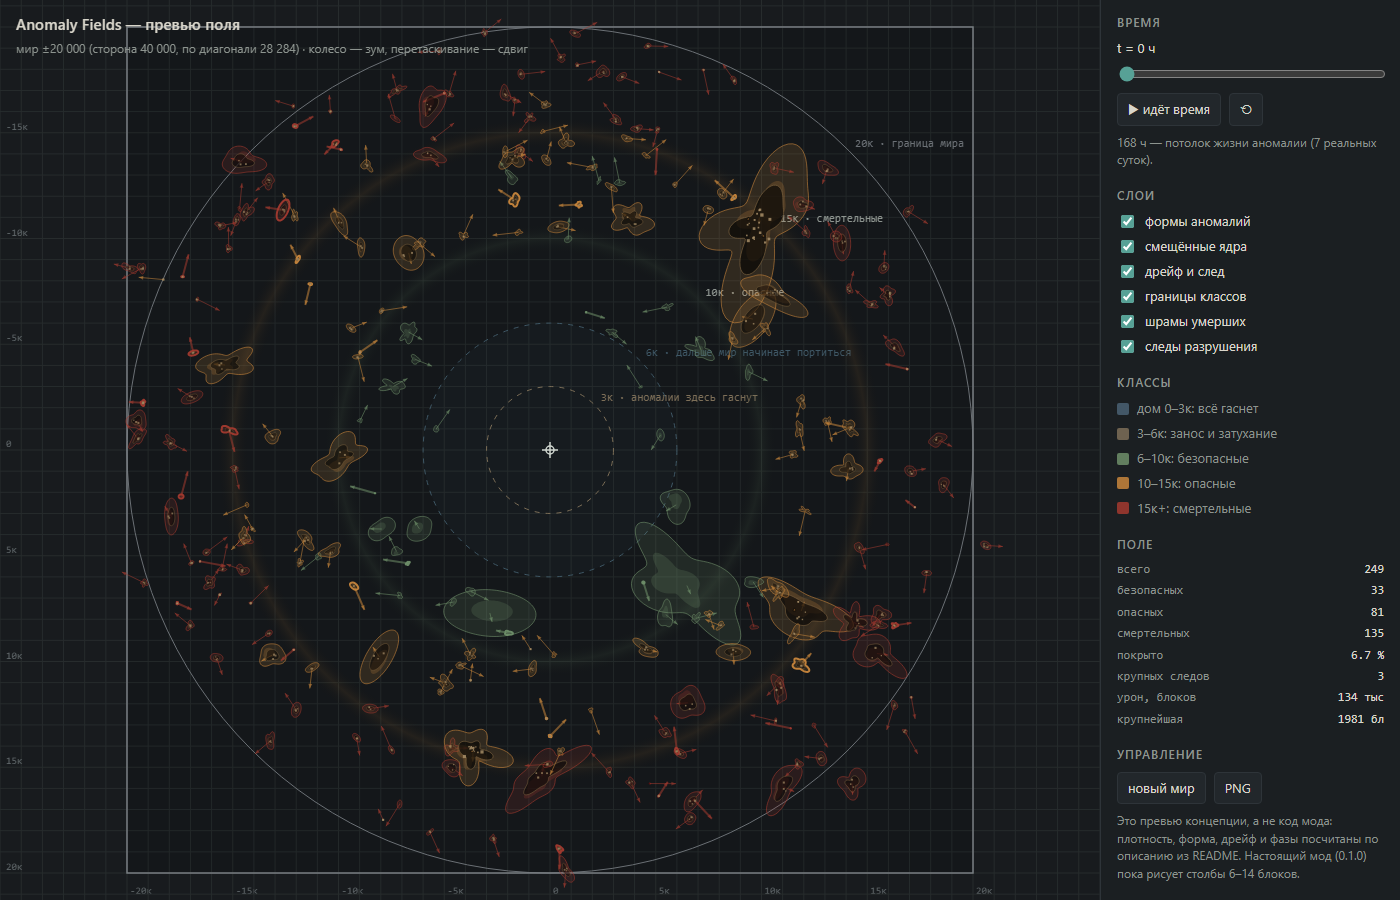
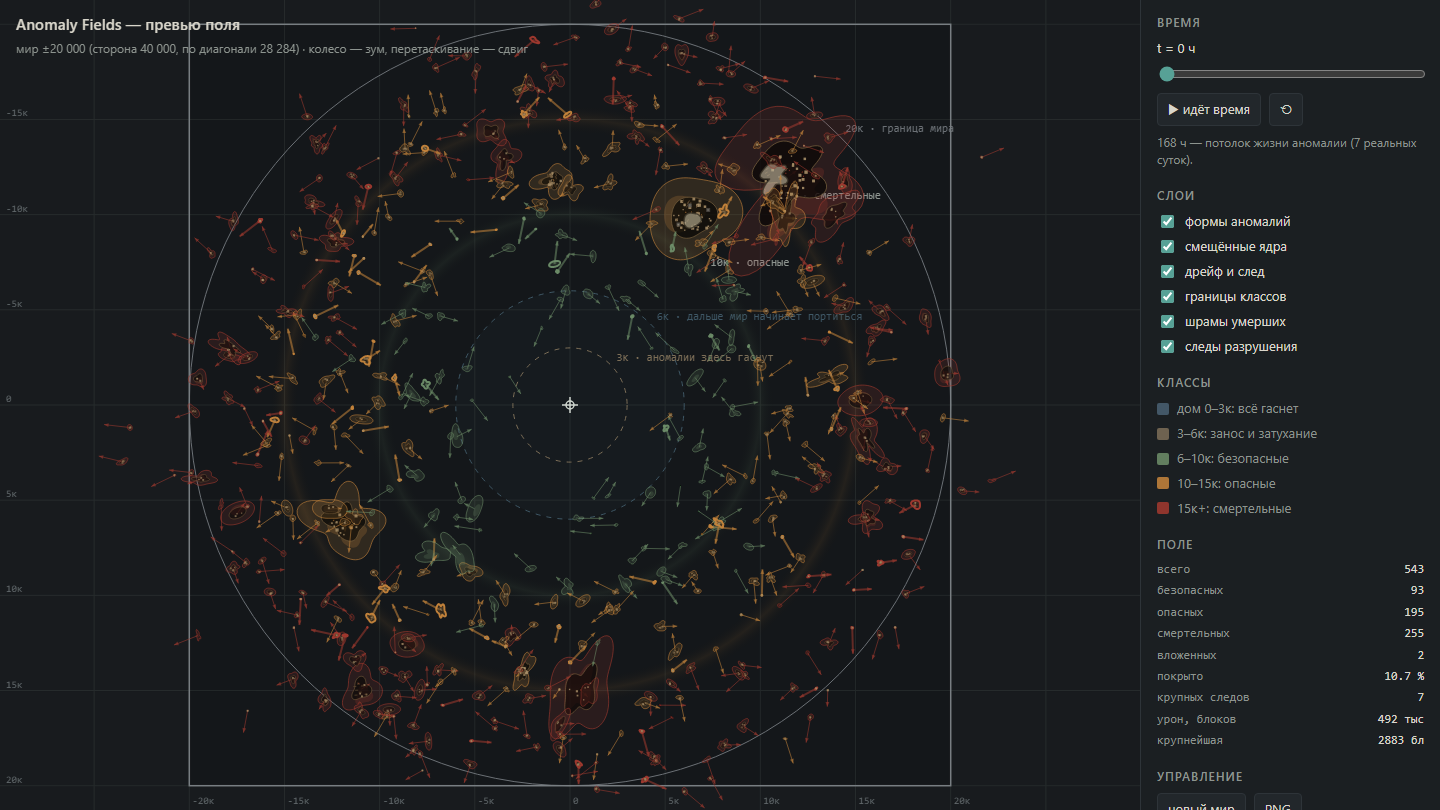
Preview 0.3.0: nested inner contour, fallen-forest hatches, ruin squares, uplift plate, nested counter; density matches the mod (600 zones); measured coverage logged at load (28.8 %) and docs updated

diff --git a/preview/anomalies-preview.html b/preview/anomalies-preview.html
@@ -170,8 +170,9 @@ function makeField(seed) {
   const rnd = mulberry32(seed);
   const out = [];
   let guard = 0;
-  // 3800 «записей» на 14 суток даёт ~250 живых в любой момент (в среднем жизнь ~21 ч)
-  while (out.length < 3800 && guard++ < 200000) {
+  // 8200 «записей» на 14 суток даёт ~600 живых в любой момент (в среднем жизнь ~21 ч):
+  // столько же, сколько держит мод (population 600) — иначе превью врёт про плотность
+  while (out.length < 8200 && guard++ < 400000) {
     const x = (rnd() * 2 - 1) * WORLD_R;
     const z = (rnd() * 2 - 1) * WORLD_R;
     const d = Math.hypot(x, z);
@@ -226,7 +227,15 @@ function makeField(seed) {
       coreAngle: rnd() * Math.PI * 2,
       coreSpin: (rnd() - 0.5) * 0.03,
       breath: 0.01 + rnd() * 0.02,          // общий радиус «вздыхает» на 1–3 %
-      breathSpeed: 0.2 + rnd() * 0.4
+      breathSpeed: 0.2 + rnd() * 0.4,
+      // вложенность (0.3.0): четверть крупных зон содержит малую
+      nest: radius >= 900 && rnd() < 0.25
+        ? { dist: 0.45 * Math.sqrt(rnd()), ang: rnd() * Math.PI * 2, r: 0.16 + rnd() * 0.14 }
+        : null,
+      // новая география (0.3.0): лес плашмя, руины, поднятая плита
+      geo: radius >= 600
+        ? { forest: rnd() < 0.65, ruins: rnd() < 0.5, uplift: radius >= 1600 && rnd() < 0.35 }
+        : null
     });
   }
   return out;
@@ -533,6 +542,17 @@ function drawAnomaly(a, st) {
     ctx.restore();
   }
   if (state.show.damage) drawDamage(a, st);
+  // вложенная зона: своя граница внутри родителя (0.3.0)
+  if (a.nest && state.show.forms) {
+    const nx = st.x + Math.cos(a.nest.ang) * st.radius * a.nest.dist;
+    const nz = st.z + Math.sin(a.nest.ang) * st.radius * a.nest.dist;
+    polygonPath(shapePoints(a, { x: nx, z: nz, radius: st.radius * a.nest.r }));
+    ctx.fillStyle = withAlpha(a.cls.color, 0.13);
+    ctx.fill();
+    ctx.strokeStyle = withAlpha(a.cls.color, 0.75 * (fresh ? 1 : 0.7));
+    ctx.lineWidth = 1;
+    ctx.stroke();
+  }
 }
 
 // последствия: большие опасные/смертельные уродуют землю, мелкие — почти нет
@@ -584,6 +604,55 @@ function drawDamage(a, st) {
     ctx.lineWidth = 1;
     ctx.stroke();
   }
+
+  // поваленный лес плашмя: короткие штрихи, все вдоль одного направления падения
+  if (a.geo && a.geo.forest) {
+    const fall = rnd() * Math.PI * 2;
+    const logs = Math.max(4, Math.round(10 * strength));
+    ctx.strokeStyle = `rgba(96, 74, 48, ${0.45 + 0.4 * strength})`;
+    ctx.lineWidth = Math.max(1, s * 1.2);
+    for (let i = 0; i < logs; i++) {
+      const ang = rnd() * Math.PI * 2;
+      const dist = Math.sqrt(rnd()) * st.radius * 0.42;
+      const [sx, sy] = toScreen(st.x + Math.cos(ang) * dist, st.z + Math.sin(ang) * dist);
+      const len = Math.max(3, (4 + rnd() * 3) * s);
+      ctx.beginPath();
+      ctx.moveTo(sx, sy);
+      ctx.lineTo(sx + Math.cos(fall) * len, sy + Math.sin(fall) * len);
+      ctx.stroke();
+    }
+  }
+
+  // обрушенные постройки: пол из обломков и стены без крыш
+  if (a.geo && a.geo.ruins) {
+    const houses = 1 + Math.round(2 * strength);
+    for (let i = 0; i < houses; i++) {
+      const ang = rnd() * Math.PI * 2;
+      const dist = Math.sqrt(rnd()) * st.radius * 0.4;
+      const [sx, sy] = toScreen(st.x + Math.cos(ang) * dist, st.z + Math.sin(ang) * dist);
+      const w = Math.max(3, (8 + rnd() * 8) * s);
+      ctx.fillStyle = `rgba(150, 146, 138, ${0.35 + 0.3 * strength})`;
+      ctx.fillRect(sx - w / 2, sy - w / 2, w, w);
+      ctx.strokeStyle = `rgba(74, 70, 64, ${0.6 + 0.3 * strength})`;
+      ctx.lineWidth = 1;
+      ctx.strokeRect(sx - w / 2, sy - w / 2, w, w);
+    }
+  }
+
+  // поднятая плита: светлый пласт с тенью по нижнему краю
+  if (a.geo && a.geo.uplift) {
+    const ang = rnd() * Math.PI * 2;
+    const dist = rnd() * st.radius * 0.3;
+    const cx = st.x + Math.cos(ang) * dist;
+    const cz = st.z + Math.sin(ang) * dist;
+    const rr = st.radius * (0.12 + rnd() * 0.08);
+    polygonPath(shapePoints(a, { x: cx, z: cz, radius: rr }));
+    ctx.fillStyle = `rgba(188, 178, 152, ${0.30 + 0.35 * strength})`;
+    ctx.fill();
+    ctx.strokeStyle = `rgba(58, 52, 40, ${0.55 + 0.3 * strength})`;
+    ctx.lineWidth = 1.5;
+    ctx.stroke();
+  }
 }
 
 function drawPlayerMark() {
@@ -606,12 +675,15 @@ function updateStats(alive) {
   let biggest = null;
   let damageTotal = 0;
   let bigScars = 0;
+  let nested = 0;
   for (const [a, st] of alive) {
     byClass[a.cls.key]++;
-    area += Math.PI * st.radius * st.radius;
+    // площадь эллипса, как в моде: вытянутость 0.55–2.25 заметно меняет покрытие
+    area += Math.PI * st.radius * st.radius * Math.max(0.2, a.stretch);
     const dmg = damageBlocks(a);
     damageTotal += dmg;
     if (dmg >= 5000) bigScars++;
+    if (a.nest) nested++;
     if (!biggest || st.radius > biggest.st.radius) biggest = { a, st };
   }
   const fmt = (v) => v >= 1e6 ? (v / 1e6).toFixed(1) + " млн" : Math.round(v / 1000) + " тыс";
@@ -622,6 +694,7 @@ function updateStats(alive) {
     ["безопасных", byClass.safe],
     ["опасных", byClass.danger],
     ["смертельных", byClass.deadly],
+    ["вложенных", nested],
     ["покрыто", share.toFixed(1) + " %"],
     ["крупных следов", bigScars],
     ["урон, блоков", fmt(damageTotal)],

diff --git a/src/main/java/anomaly/AnomalyField.java b/src/main/java/anomaly/AnomalyField.java
@@ -137,6 +137,11 @@ public final class AnomalyField {
 				data.anomalies.size(), config == null ? 0 : config.population,
 				String.format("%.1f", AnomalyClock.fieldMs() / (double) HOUR_MS),
 				fresh ? " (новое поле, население посеяно)" : "");
+		// замер сразу после загрузки: покрытие — единственное число, которое нельзя проверить глазами
+		Stats measured = stats();
+		AnomalyMod.LOGGER.info("Anomaly: покрытие {} %, классов safe/danger/deadly {}/{}/{}, бюджет {} блоков",
+				String.format("%.1f", measured.coveragePercent()),
+				measured.safe(), measured.danger(), measured.deadly(), Math.round(measured.budget()));
 	}
 
 	private static long newestBorn() {

diff --git a/README.md b/README.md
@@ -833,6 +833,9 @@ HSV (насыщенность ≥ 0.5, яркость ≥ 0.82): ваниль м
 - классы по дальности: до 3к гаснет всё, 3–6к занос и затухание, 6–10к зелёные, 10–15к янтарные, 15к+ красные;
 - **следы разрушения**: тёмное пятно, обломки и пики — тем крупнее и заметнее, чем больше аномалия; у мелких
   (100–500) почти ничего, у безопасных — ничего вообще (бюджет по таблице из README);
+- **следы 0.3.0**: штрихи поваленного леса вдоль одного направления падения, квадраты руин и светлая плита
+  подъёма; **вложенность** — у четверти крупных зон видна малая зона внутри, и она считается в панели
+  отдельной строкой;
 - дрейф: у каждой аномалии стрелка направления, мелкие ползут быстрее, гиганты почти стоят;
 - ползунок времени 0–168 ч с кнопкой «идёт время»: видно рождения, рост, зрелость, распад и «шрамы» умерших;
 - зум колесом, сдвиг перетаскиванием, подсказка по наведению, кнопка PNG.
@@ -840,8 +843,11 @@ HSV (насыщенность ≥ 0.5, яркость ≥ 0.82): ваниль м
 Скриншоты рядом: `preview/preview-t0.png`, `preview/preview-t72.png`, `preview/preview-detail.png` (крупный
 план формы).
 
-Числа в превью подобраны «по описанию»; настоящие — в `config/anomaly.json`. Мод повторяет именно эту
-картину: 600 живых зон, покрытие 27–32 % карты (замеры 21.11.2026 на живом поле через `/anomaly stats`).
+Числа в превью подобраны «по описанию»; настоящие — в `config/anomaly.json`. Живое поле меряет себя само
+и пишет замер в лог при загрузке: **600 зон, покрытие 28.8 % карты, бюджет 53.5 млн блоков** (24.11.2026,
+`safe/danger/deadly` = 123/212/265, `/anomaly stats` показывает то же самое). Превью — эскиз
+распределения, а не калька: в нём ~550–600 зон и 14–20 % площади, потому что доля крупных зон другая.
+В превью смотрят форму, дрейф, следы и вложенность, а не проценты.
 
 ## Конфиг
 
